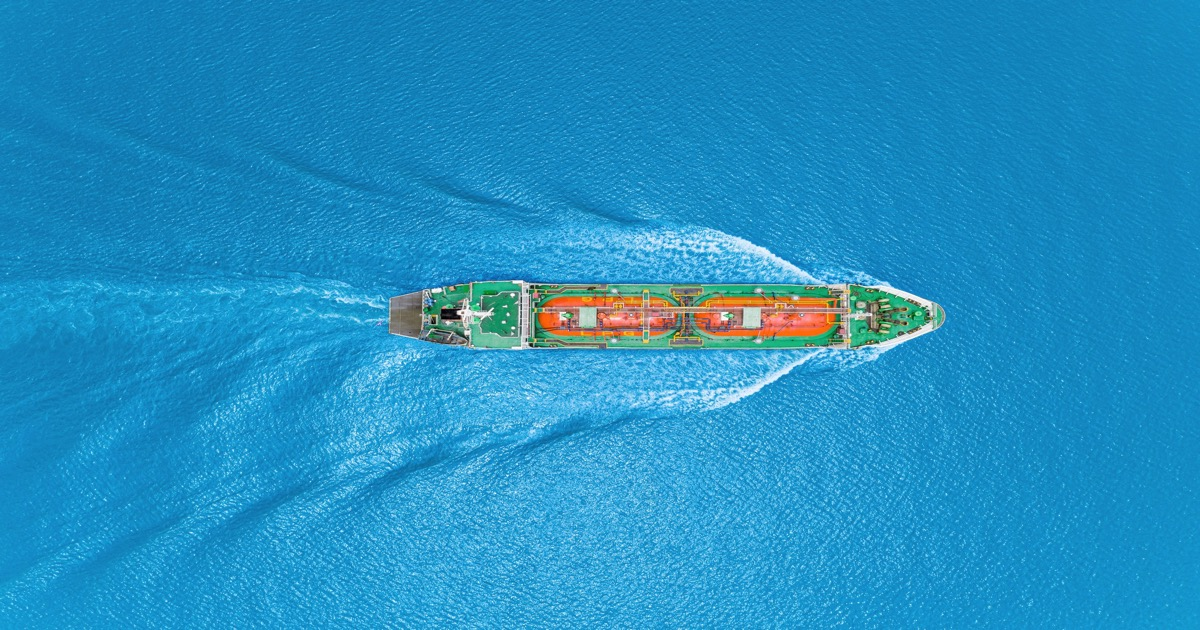
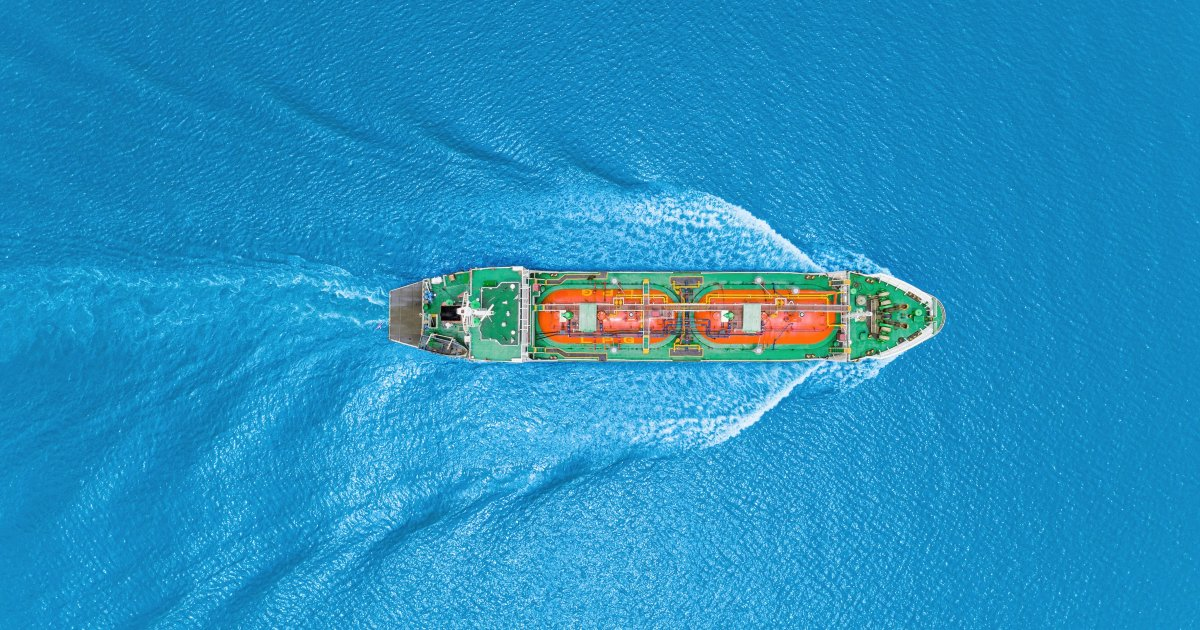
fix: Resolve WhatsApp OG image issues and update metadata URLs
- Create optimized OG image (216KB JPEG, 1200x630) for social sharing
- Remove conflicting large PNG images from app directory (1.2MB each)
- Update all metadata URLs to use www subdomain for consistency
- Add Google Search Console verification file
- Update project documentation with OG image specs

diff --git a/app/layout.tsx b/app/layout.tsx
@@ -76,7 +76,7 @@ const satoshi = localFont({
 });
 
 export const metadata: Metadata = {
-  metadataBase: new URL('https://bluetidegroup.com'),
+  metadataBase: new URL('https://www.bluetidegroup.com'),
   title: {
     default: 'Bluetide Group - Expert Marine Services | ROV, Diving & Hull Cleaning',
     template: '%s | Bluetide Group',
@@ -102,13 +102,13 @@ export const metadata: Metadata = {
   openGraph: {
     type: 'website',
     locale: 'en_US',
-    url: 'https://bluetidegroup.com',
+    url: 'https://www.bluetidegroup.com',
     siteName: 'Bluetide Group',
     title: 'Bluetide Group - Expert Marine Services | ROV, Diving & Hull Cleaning',
     description: 'Leading marine services company in Nigeria. Expert underwater hull cleaning, diving services, ROV inspection, and subsea positioning.',
     images: [
       {
-        url: 'https://bluetidegroup.com/og-image.jpg',
+        url: 'https://www.bluetidegroup.com/og-image.jpg',
         width: 1200,
         height: 630,
         alt: 'Bluetide Group - Marine Services Experts',
@@ -121,7 +121,7 @@ export const metadata: Metadata = {
     card: 'summary_large_image',
     title: 'Bluetide Group - Expert Marine Services',
     description: 'Leading marine services company in Nigeria. Expert underwater hull cleaning, diving services, ROV inspection.',
-    images: ['https://bluetidegroup.com/og-image.jpg'],
+    images: ['https://www.bluetidegroup.com/og-image.jpg'],
   },
 
   // Robots

diff --git a/public/googleb80e95295d7fc621.html b/public/googleb80e95295d7fc621.html
@@ -1,0 +1,1 @@
+google-site-verification: googleb80e95295d7fc621.html

diff --git a/CLAUDE.md b/CLAUDE.md
@@ -89,6 +89,14 @@ SVGs are handled via `@svgr/webpack`:
 - Import as URL: `import logoUrl from './logo.svg?url'`
 - Type definitions in `svgr.d.ts`
 
+### Code Quality Standards
+
+- **Linter**: Biome is configured for strict linting
+- **Accessibility**: Use semantic HTML (`<button>` not `<div>` for interactive elements)
+- **Button attributes**: Always include `type="button"` and `aria-label` for accessibility
+- **React hooks**: Wrap event handlers in `useCallback`, add cleanup functions to `useEffect`
+- **Import sorting**: Imports must be sorted per Biome requirements (external libs → Next.js → local)
+
 ### Performance Optimizations
 
 - **Image optimization**:
@@ -183,7 +191,10 @@ WhatsApp contact is hardcoded to `+2347065382326` in `app/layout.tsx:188`. Updat
 
 ## SEO Configuration
 
-- Metadata base URL: `https://bluetidegroup.com`
+- **Metadata base URL**: `https://bluetidegroup.com`
+- **Open Graph image**: `public/og-image.jpg` (294KB, 1200x630 JPEG)
+  - Must use absolute URL in meta tags for social media crawlers
+  - Current: `https://bluetidegroup.com/og-image.jpg`
 - All pages should include proper meta descriptions and Open Graph tags
 - Follow pattern in `app/layout.tsx` for global metadata
 - Individual pages can override with their own metadata exports
